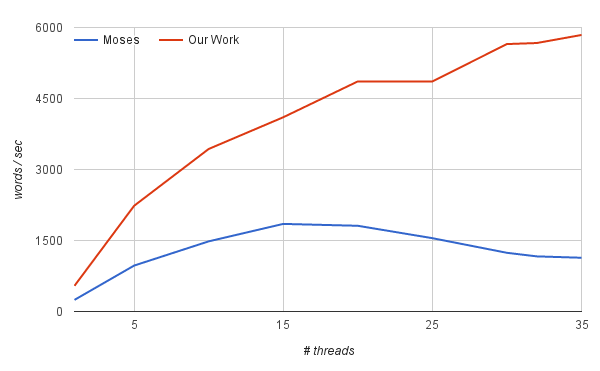
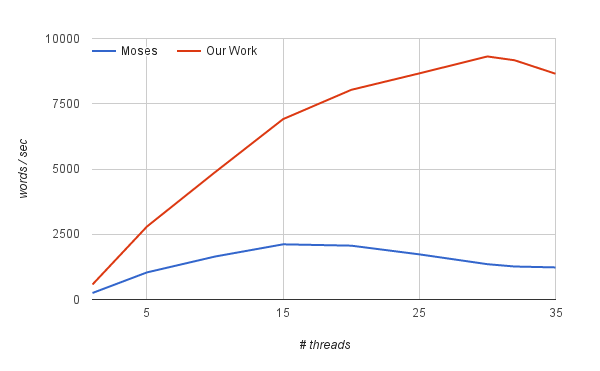
timer loaded

diff --git a/acl.2016/acl2016.tex b/acl.2016/acl2016.tex
@@ -529,7 +529,7 @@ We verify the results with the French-English phrase-based system and test set. 
 \label{fig:fr-en-speed}
 \end{figure} 
 
-It has been suggested that using a larger language model would overpower the improvements in decoding speed. We tested this posit by replacing the language model in our ar-en experiment with a 96GB language model. Results show that the decoding speed compared to Moses is less than with a smaller language model, Figure~\ref{fig:large-lm}, however, our work still scales monotonically until all CPUs are saturated, unlike Moses.
+It has been suggested that using a larger language model would overpower the improvements in decoding speed. We tested this conjecture by replacing the language model in the ar-en experiment with a 96GB language model. The time to load of language model is significant (394 sec) and was excluded from the translation speed. Results show that our decoder is 7 times faster than Moses and still scales monotonically until all CPUs are saturated, Figure~\ref{fig:large-lm}.
 \begin{figure}[h]
 \centering
 \begin{tabular}{cc}
